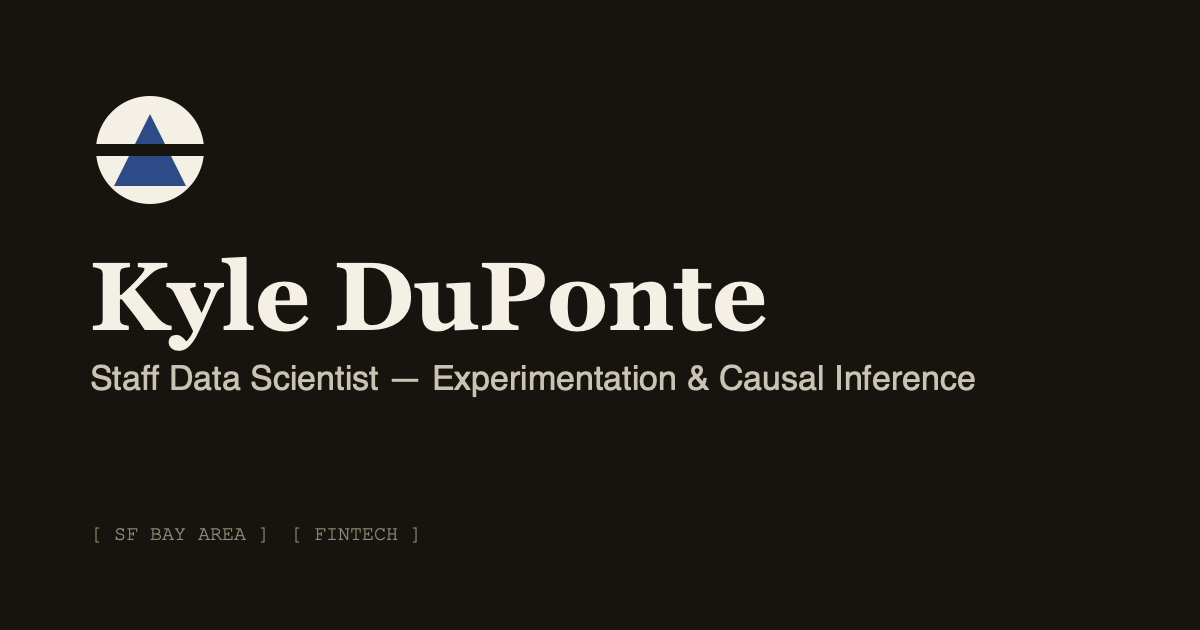
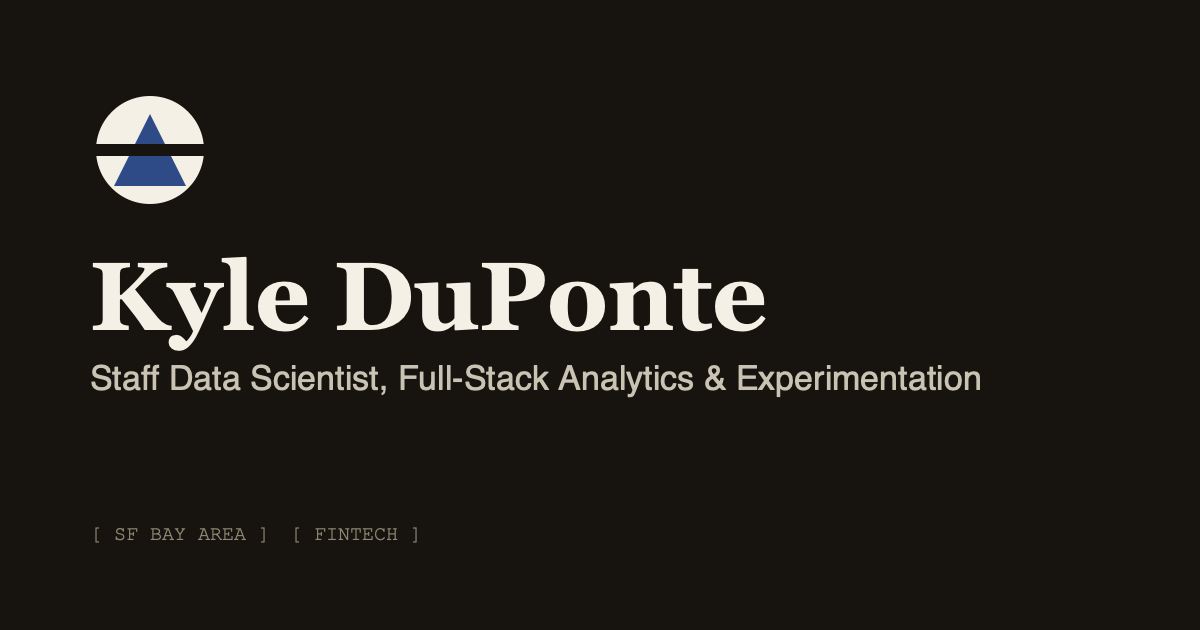
Rewrite copy: drop em dashes, soften causal inference claims
Em dashes are a common AI-generation tell, so they're replaced
throughout with commas, colons, or parentheses that fit each
sentence, and the title separator switches to a middle dot.

Also relaxes how causal inference is presented: it reads as an
established core skill in several places (a hero tag alongside
Experimentation, an About-page skill pill, parity with FinTech
experimentation in meta descriptions) when it's actually a newer
area still being learned. Copy now frames it as a growing interest
rather than existing expertise.

Changed region(s): [[0.3083, 0.573, 0.8325, 0.6333]]

diff --git a/src/content/projects/causal-inference-notes.md b/src/content/projects/causal-inference-notes.md
@@ -1,6 +1,6 @@
 ---
 title: "Causal Inference Field Notes"
-summary: "Worked examples of causal methods — diff-in-diff, synthetic control, instrumental variables — for questions where a randomized test isn't possible."
+summary: "Notes and worked examples as I learn causal methods (diff-in-diff, synthetic control, instrumental variables) for questions where a randomized test isn't possible."
 status: "coming-soon"
 tags: ["Causal Inference", "Python"]
 order: 2

diff --git a/src/content/projects/experimentation-toolkit.md b/src/content/projects/experimentation-toolkit.md
@@ -1,6 +1,6 @@
 ---
 title: "Experimentation Toolkit"
-summary: "An open-source library for designing, analyzing, and reporting on A/B tests — the parts of an experimentation platform worth sharing publicly."
+summary: "An open-source library for designing, analyzing, and reporting on A/B tests: the parts of an experimentation platform worth sharing publicly."
 status: "coming-soon"
 tags: ["Python", "Experimentation", "Statistics"]
 order: 1
